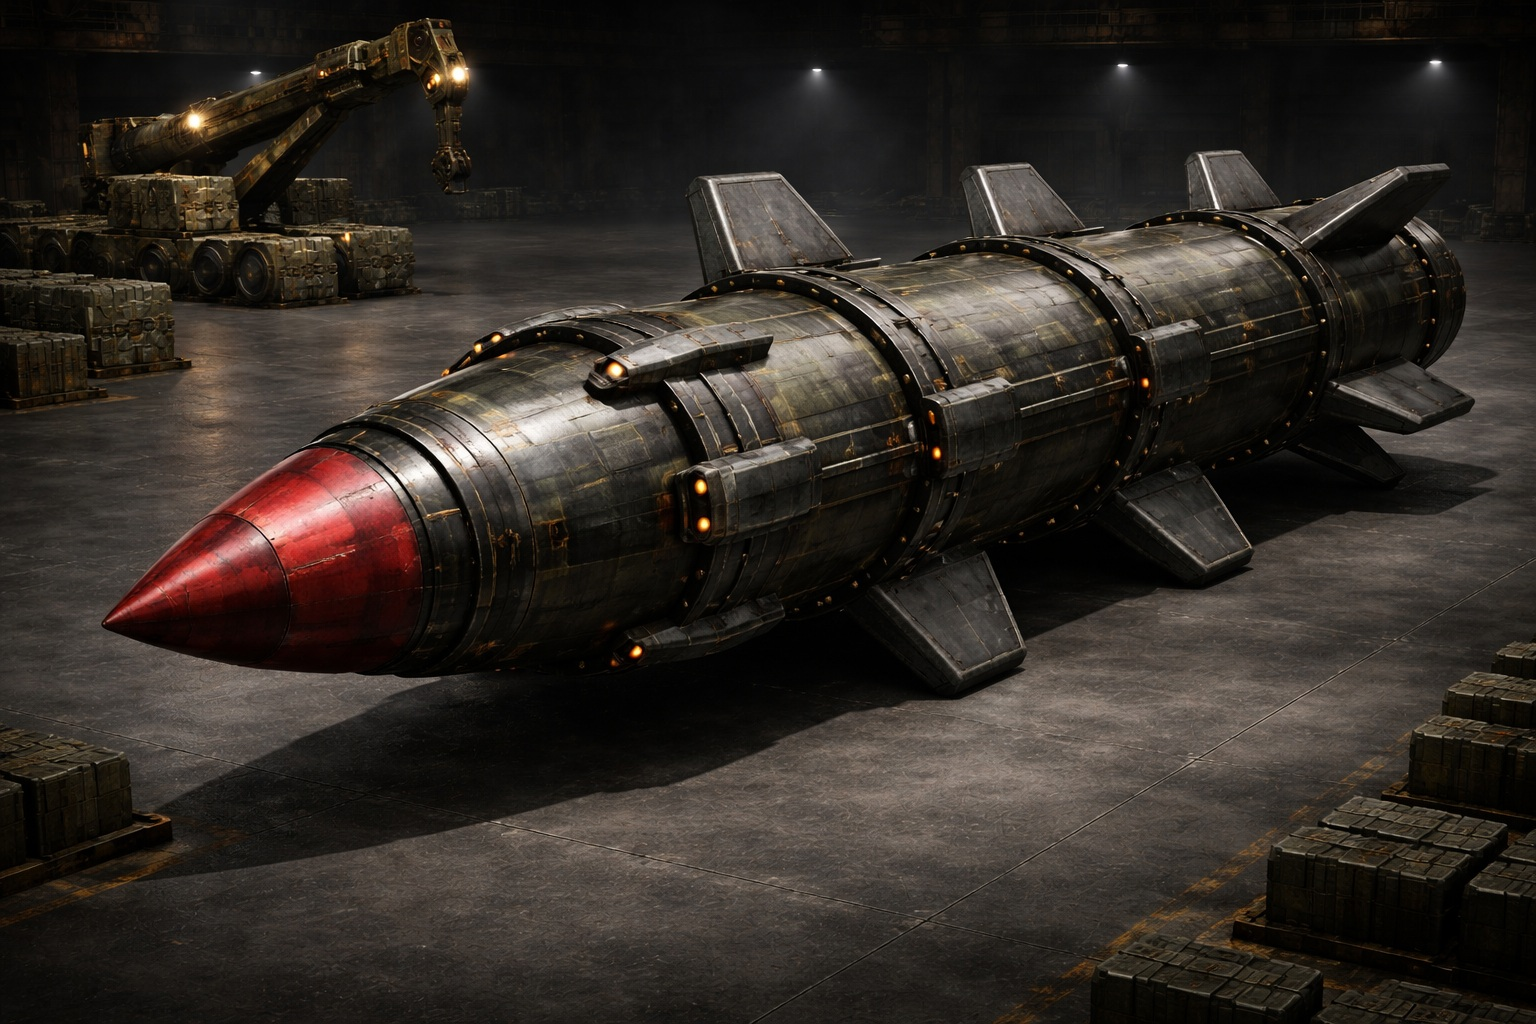
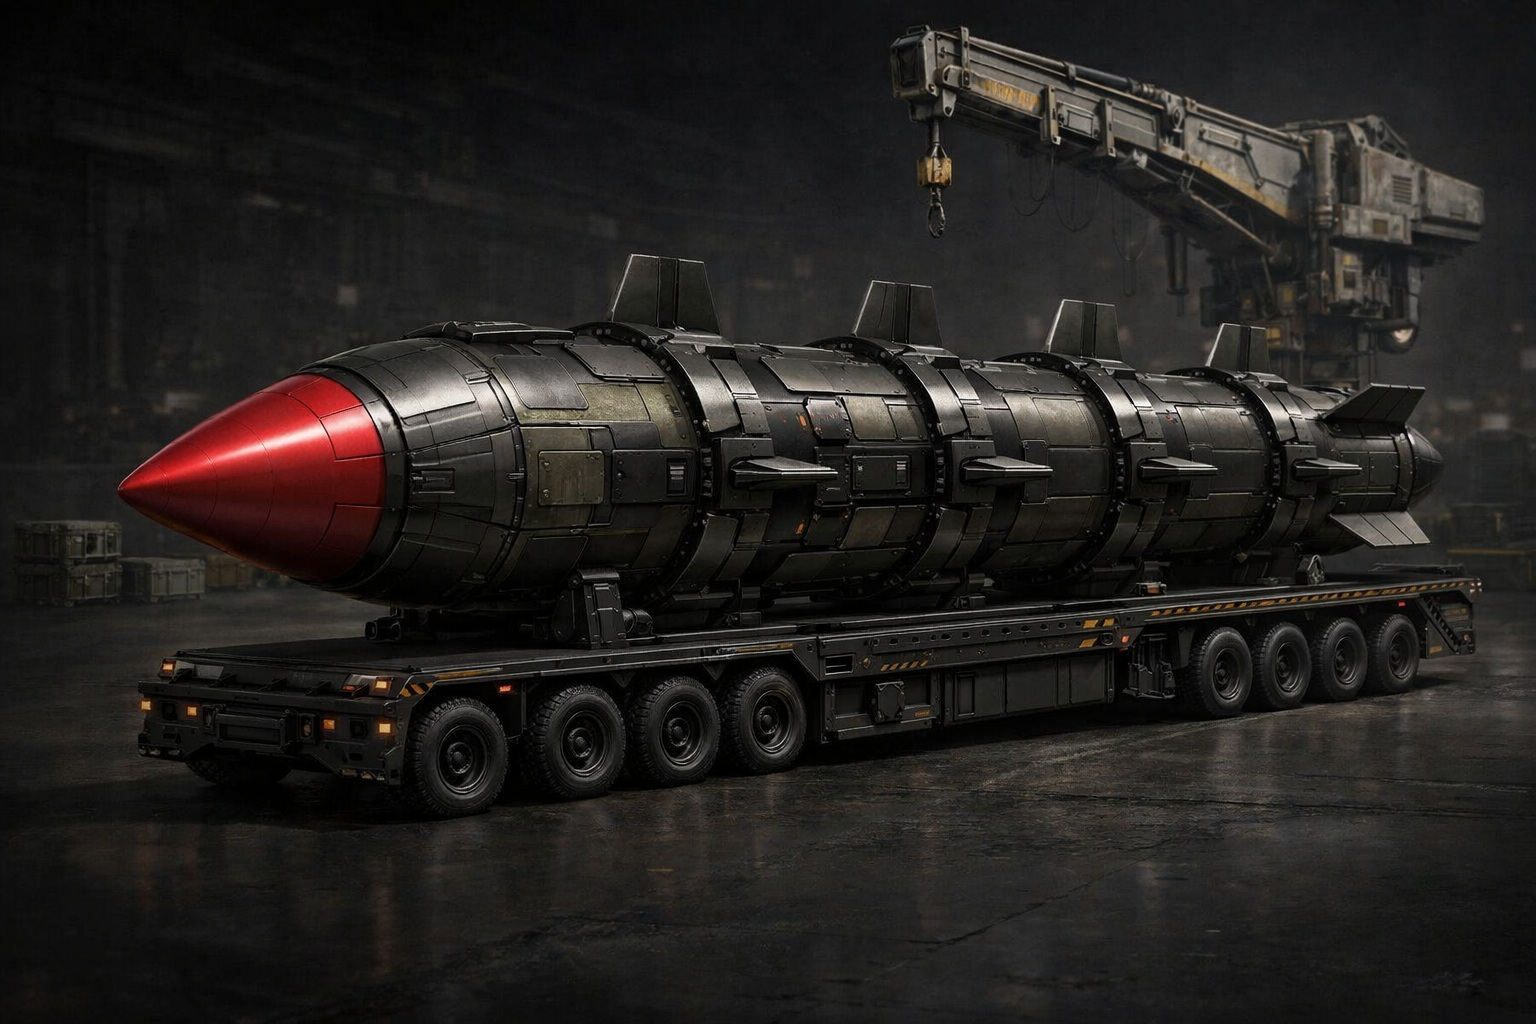
Fix `canShootToOrbit` assignment logic in defence blueprints factory and update HEAVY_BOMB image.

diff --git a/src/app/factories/defence-blueprints.factory.ts b/src/app/factories/defence-blueprints.factory.ts
@@ -90,7 +90,7 @@ export class DefenceBlueprintsFactory {
       type,
       this.resolveImagePath(entry, type),
       this.parseEnumKey(HullClass, entry.hullClass, 'HullClass'),
-      !!entry.canShootToOrbit,
+      entry.canShootToOrbit,
       entry.size,
       entry.hullPointsCapacity,
       entry.criticalThreshold,